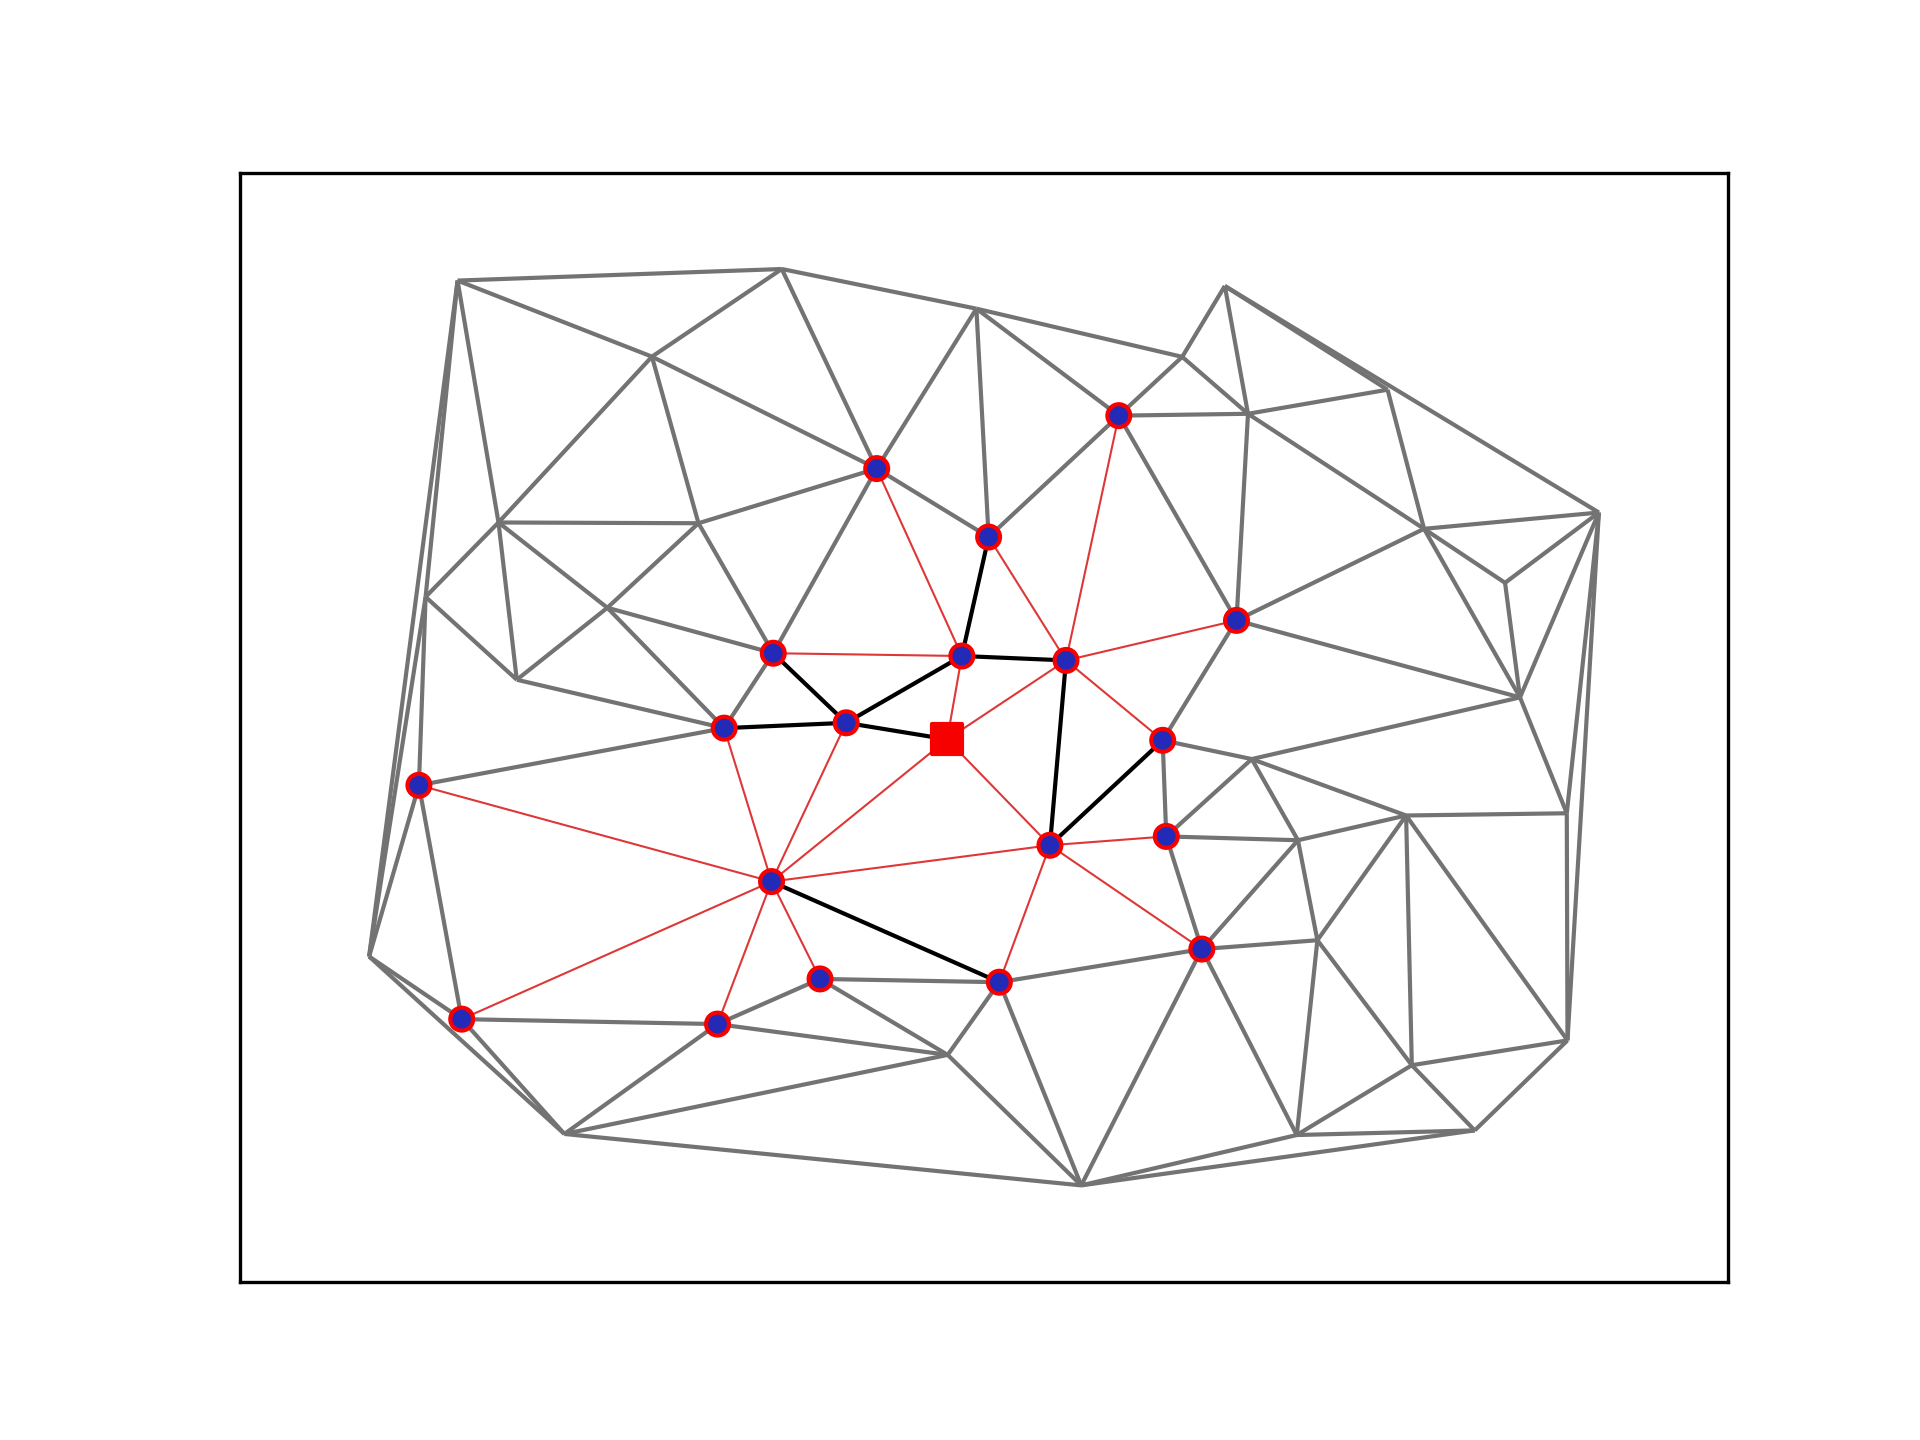
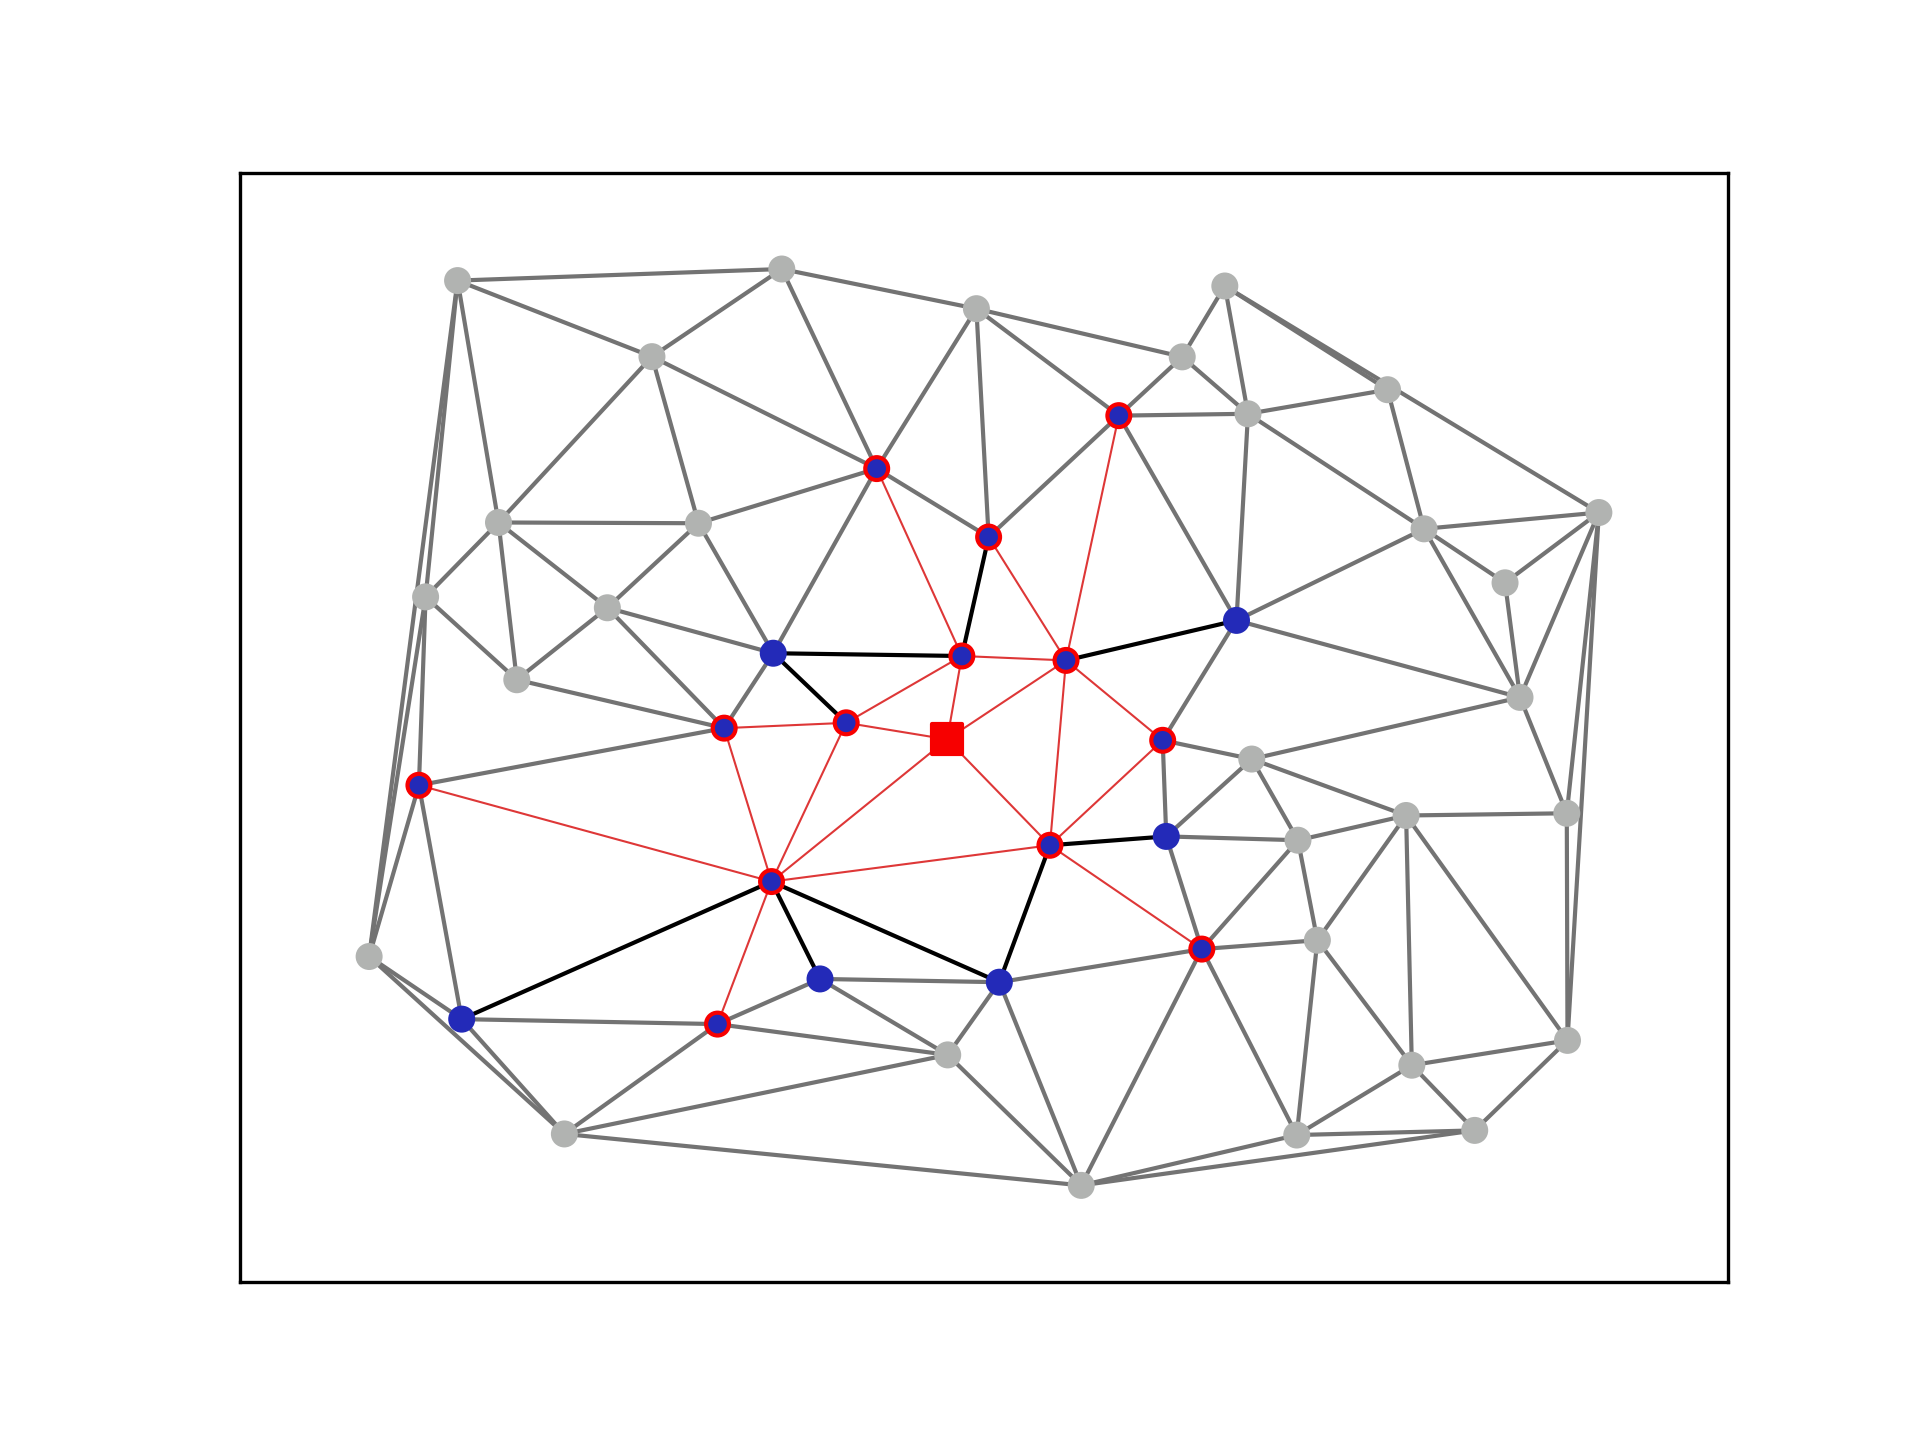
update on the graph

diff --git a/Test/test_drawing.py b/Test/test_drawing.py
@@ -1,0 +1,178 @@
+#!/usr/bin/env python
+"""
+Plot multi-graphs in 3D.
+"""
+import numpy as np
+import matplotlib.pyplot as plt
+import networkx as nx
+
+from mpl_toolkits.mplot3d import Axes3D
+from mpl_toolkits.mplot3d.art3d import Line3DCollection
+
+
+class LayeredNetworkGraph(object):
+
+    def __init__(self, graphs, node_labels=None, layout=nx.spring_layout, ax=None):
+        """Given an ordered list of graphs [g1, g2, ..., gn] that represent
+        different layers in a multi-layer network, plot the network in
+        3D with the different layers separated along the z-axis.
+
+        Within a layer, the corresponding graph defines the connectivity.
+        Between layers, nodes in subsequent layers are connected if
+        they have the same node ID.
+
+        Arguments:
+        ----------
+        graphs : list of networkx.Graph objects
+            List of graphs, one for each layer.
+
+        node_labels : dict node ID : str label or None (default None)
+            Dictionary mapping nodes to labels.
+            If None is provided, nodes are not labelled.
+
+        layout_func : function handle (default networkx.spring_layout)
+            Function used to compute the layout.
+
+        ax : mpl_toolkits.mplot3d.Axes3d instance or None (default None)
+            The axis to plot to. If None is given, a new figure and a new axis are created.
+
+        """
+
+        # book-keeping
+        self.graphs = graphs
+        self.total_layers = len(graphs)
+
+        self.node_labels = node_labels
+        self.layout = layout
+
+        if ax:
+            self.ax = ax
+        else:
+            fig = plt.figure()
+            self.ax = fig.add_subplot(111, projection='3d')
+
+        # create internal representation of nodes and edges
+        self.get_nodes()
+        self.get_edges_within_layers()
+        self.get_edges_between_layers()
+
+        # compute layout and plot
+        self.get_node_positions()
+        self.draw()
+
+
+    def get_nodes(self):
+        """Construct an internal representation of nodes with the format (node ID, layer)."""
+        self.nodes = []
+        for z, g in enumerate(self.graphs):
+            self.nodes.extend([(node, z) for node in g.nodes()])
+
+
+    def get_edges_within_layers(self):
+        """Remap edges in the individual layers to the internal representations of the node IDs."""
+        self.edges_within_layers = []
+        for z, g in enumerate(self.graphs):
+            self.edges_within_layers.extend([((source, z), (target, z)) for source, target in g.edges()])
+
+
+    def get_edges_between_layers(self):
+        """Determine edges between layers. Nodes in subsequent layers are
+        thought to be connected if they have the same ID."""
+        self.edges_between_layers = []
+        for z1, g in enumerate(self.graphs[:-1]):
+            z2 = z1 + 1
+            h = self.graphs[z2]
+            shared_nodes = set(g.nodes()) & set(h.nodes())
+            self.edges_between_layers.extend([((node, z1), (node, z2)) for node in shared_nodes])
+
+
+    def get_node_positions(self, *args, **kwargs):
+        """Get the node positions in the layered layout."""
+        # What we would like to do, is apply the layout function to a combined, layered network.
+        # However, networkx layout functions are not implemented for the multi-dimensional case.
+        # Futhermore, even if there was such a layout function, there probably would be no straightforward way to
+        # specify the planarity requirement for nodes within a layer.
+        # Therefor, we compute the layout for the full network in 2D, and then apply the
+        # positions to the nodes in all planes.
+        # For a force-directed layout, this will approximately do the right thing.
+        # TODO: implement FR in 3D with layer constraints.
+
+        composition = self.graphs[0]
+        for h in self.graphs[1:]:
+            composition = nx.compose(composition, h)
+
+        pos = self.layout(composition, *args, **kwargs)
+
+        self.node_positions = dict()
+        for z, g in enumerate(self.graphs):
+            self.node_positions.update({(node, z) : (*pos[node], z) for node in g.nodes()})
+
+
+    def draw_nodes(self, nodes, *args, **kwargs):
+        x, y, z = zip(*[self.node_positions[node] for node in nodes])
+        self.ax.scatter(x, y, z, *args, **kwargs)
+
+
+    def draw_edges(self, edges, *args, **kwargs):
+        segments = [(self.node_positions[source], self.node_positions[target]) for source, target in edges]
+        line_collection = Line3DCollection(segments, *args, **kwargs)
+        self.ax.add_collection3d(line_collection)
+
+
+    def get_extent(self, pad=0.1):
+        xyz = np.array(list(self.node_positions.values()))
+        xmin, ymin, _ = np.min(xyz, axis=0)
+        xmax, ymax, _ = np.max(xyz, axis=0)
+        dx = xmax - xmin
+        dy = ymax - ymin
+        return (xmin - pad * dx, xmax + pad * dx), \
+            (ymin - pad * dy, ymax + pad * dy)
+
+
+    def draw_plane(self, z, *args, **kwargs):
+        (xmin, xmax), (ymin, ymax) = self.get_extent(pad=0.1)
+        u = np.linspace(xmin, xmax, 10)
+        v = np.linspace(ymin, ymax, 10)
+        U, V = np.meshgrid(u ,v)
+        W = z * np.ones_like(U)
+        self.ax.plot_surface(U, V, W, *args, **kwargs)
+
+
+    def draw_node_labels(self, node_labels, *args, **kwargs):
+        for node, z in self.nodes:
+            if node in node_labels:
+                ax.text(*self.node_positions[(node, z)], node_labels[node], *args, **kwargs)
+
+
+    def draw(self):
+
+        self.draw_edges(self.edges_within_layers,  color='k', alpha=0.3, linestyle='-', zorder=2)
+        self.draw_edges(self.edges_between_layers, color='k', alpha=0.3, linestyle='--', zorder=2)
+
+        for z in range(self.total_layers):
+            self.draw_plane(z, alpha=0.2, zorder=1)
+            self.draw_nodes([node for node in self.nodes if node[1]==z], s=300, zorder=3)
+
+        if self.node_labels:
+            self.draw_node_labels(self.node_labels,
+                                  horizontalalignment='center',
+                                  verticalalignment='center',
+                                  zorder=100)
+
+
+if __name__ == '__main__':
+
+    # define graphs
+    n = 5
+    g = nx.erdos_renyi_graph(4*n, p=0.1)
+    h = nx.erdos_renyi_graph(3*n, p=0.2)
+    i = nx.erdos_renyi_graph(2*n, p=0.4)
+
+    node_labels = {nn : str(nn) for nn in range(4*n)}
+
+    # initialise figure and plot
+    fig = plt.figure()
+    ax = fig.add_subplot(111, projection='3d')
+    LayeredNetworkGraph([g, h, i], node_labels=node_labels, ax=ax, layout=nx.spring_layout)
+    ax.set_axis_off()
+    plt.show()

diff --git a/draw_graphs.py b/draw_graphs.py
@@ -70,8 +70,6 @@ def Draw_Picture(Input: InputStructure, Output: OutputStructure, WithOld: Boolea
                     edgelistAsc.append(edge_colors[0])
                     edgelistAsw.append(1)
 
-
-
     NodeES = set()
     NodeEN = set()
     for i in range(Input.n-1):
@@ -83,8 +81,13 @@ def Draw_Picture(Input: InputStructure, Output: OutputStructure, WithOld: Boolea
                 NodeEN.update(set([i]))
                 NodeEN.update(set([j]))
 
+
+
+
     NodeEN = NodeEN - NodeES
 
+    Tmp1 = len(NodeES)
+    Tmp2 = len(NodeEN)
 
     Positions = {}
     n = Input.n
@@ -95,13 +98,18 @@ def Draw_Picture(Input: InputStructure, Output: OutputStructure, WithOld: Boolea
         for x in range(TmpN):
             Positions[x+TmpGap] = (Input.OP[x][0],Input.OP[x][1])
 
-
     node_colors= ["#232ab8","#f70000","#b1b3b1","#80d189","#ccbfbe","#ccbfbe","#ccbfbe"]
     node_sizes = [30,50,7000,9000,11000,13000,15000]
     node_shapes = ['s', 'o']
+    
+    OldNodes = [x+TmpGap  for x in Input.LN]
+    Tmp3 = len(OldNodes)
 
     G = nx.Graph()
     G.add_nodes_from(Positions.keys())
+    
+    ListNodes = [[] for _ in range(5)]
+
     for a,p in Positions.items():
         G.nodes[a]['pos'] = p 
         if a == Input.sr:
@@ -109,41 +117,50 @@ def Draw_Picture(Input: InputStructure, Output: OutputStructure, WithOld: Boolea
             G.nodes[a]['edgecolor'] = node_colors[1]
             G.nodes[a]['size'] = node_sizes[1]
             G.nodes[a]['shape'] = node_shapes[0]
+            ListNodes[0].append(a)
+
         elif a in NodeES:
             G.nodes[a]['color'] = node_colors[0]
             G.nodes[a]['size'] = node_sizes[0]
             G.nodes[a]['edgecolor'] = node_colors[1]
             G.nodes[a]['shape'] = node_shapes[1]
+            ListNodes[1].append(a)
         elif a in NodeEN:
             G.nodes[a]['color'] = node_colors[0]
             G.nodes[a]['size'] = node_sizes[0]
             G.nodes[a]['edgecolor'] = node_colors[0]
             G.nodes[a]['shape'] = node_shapes[1]
-        elif a in Input.LN:
+            ListNodes[2].append(a)
+        elif a in OldNodes:
             G.nodes[a]['color'] = node_colors[2]
             G.nodes[a]['size'] = node_sizes[0]
             G.nodes[a]['edgecolor'] = node_colors[2]
             G.nodes[a]['shape'] = node_shapes[1]
+            ListNodes[3].append(a)
         else:
             G.nodes[a]['color'] = node_colors[2]
             G.nodes[a]['size'] = 0
             G.nodes[a]['edgecolor'] = node_colors[2]
             G.nodes[a]['shape'] = node_shapes[1]
+            ListNodes[4].append(a)
 
-    #nx.draw(G, Positions)
+
     G.add_edges_from(edgelistAs)
-    nx.draw_networkx_edges(G, Positions, edge_color=edgelistAsc, width=edgelistAsw)
+    nx.draw_networkx_edges(G, Positions, edge_color=edgelistAsc, width = edgelistAsw)
 
-    for shape in set(node_shapes):
+    for  shape in set(node_shapes):
         # the nodes with the desired shapes
         node_list = [node for node in G.nodes() if G.nodes[node]['shape'] == shape]
-        nx.draw_networkx_nodes(G,Positions,
+        nx.draw_networkx_nodes(
+                            G,
+                            Positions,
                             nodelist = node_list,
                             node_size = [G.nodes[node]['size'] for node in node_list],
                             node_color= [G.nodes[node]['color'] for node in node_list],
-                            edgecolors= [G.nodes[node]['edgecolor'] for node in node_list],
-                            node_shape = shape)
+                            edgecolors= [G.nodes[node]['edgecolor'] for node in node_list], 
+                            node_shape= shape)
 
+    
     plt.savefig(FNAMEA, dpi=300)
     plt.clf()
 
@@ -174,13 +191,26 @@ def Draw_Picture(Input: InputStructure, Output: OutputStructure, WithOld: Boolea
     plt.savefig(FNAMEO, dpi=300)
     plt.clf()
 
-    #G = nx.DiGraph()
-    #G.add_edges_from(edgelist)
-    #nx.draw_networkx(G, arrows=True, **options)
-    #pos = nx.spring_layout(G, k=0.15, iterations=2)
-    #nx.draw(G, pos)
-    #pylab.show() 
+
+from reading_pickles import InputStructure
+from reading_pickles import read_data
+from gurobi_eng import Gurobi_Solve
+from write_output import Write_Result
+from draw_graphs import Draw_Picture
 
 
+if __name__ == '__main__':
+    St = 70254
+    Ed = 70255
+    for x in range(St, Ed):
+        InputDt = read_data(x, INCLUDE_OLD = True)
 
-
+        InputDt.Lmt = int(InputDt.Lmt * 0.5)
+        InputDt.Lmt = 20*2
+        #InputDt.show()
+        ResultDt = Gurobi_Solve(InputDt,Lazy=False)
+        print(ResultDt.Time)
+        print("Problem solved")
+        #Save data and result
+        Write_Result(InputDt, ResultDt)
+        Draw_Picture(InputDt, ResultDt, WithOld=True)

diff --git a/IsolatingData.py b/IsolatingData.py
@@ -258,7 +258,7 @@ def Write_Draw(Input: InputStructure, Output: OutputStructure):
         exit(993)
 
     out = open(FNAMED,'wb')
-    tmp_dic = {'A':New_A, 'X':New_X , 'T':Input.Theta, 'R': New_sr, 'L':New_Lmt, 'P':NewPositions, 'OA':ReEdge, 'OP':Input.Pos, 'LN': list(NodeES)}
+    tmp_dic = {'A':New_A, 'X':New_X , 'T':Input.Theta, 'R': New_sr, 'L':New_Lmt, 'P':NewPositions, 'OA':ReEdge, 'OP':Input.Pos, 'LN': list(NodeEN)}
 
     pickle.dump(tmp_dic, out)
     out.close()
@@ -266,7 +266,7 @@ def Write_Draw(Input: InputStructure, Output: OutputStructure):
 
 def ExtactingNodes():
     
-    St = 255
+    St = 254
     Ed = 256
 
     for x in range(St, Ed):
